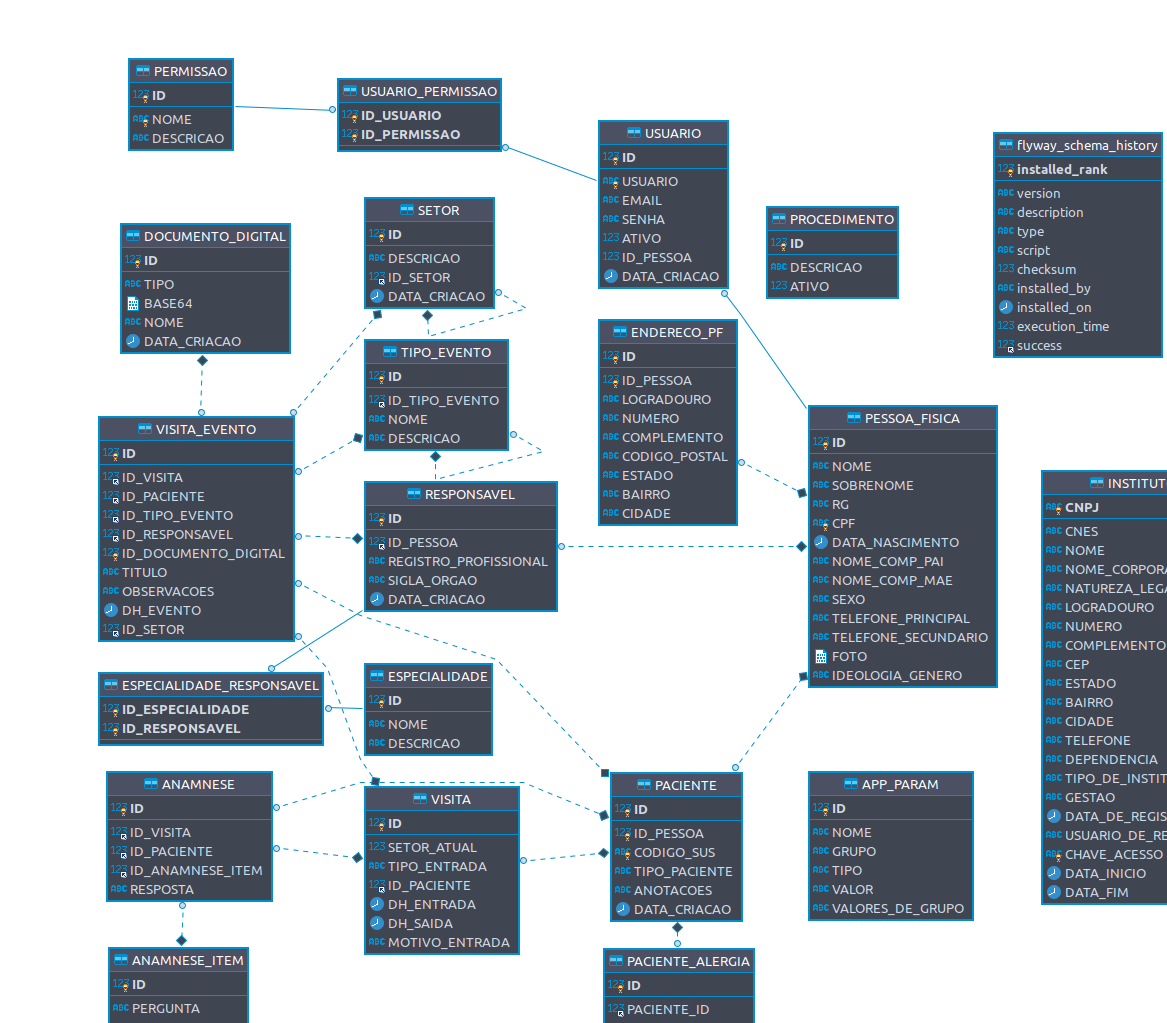
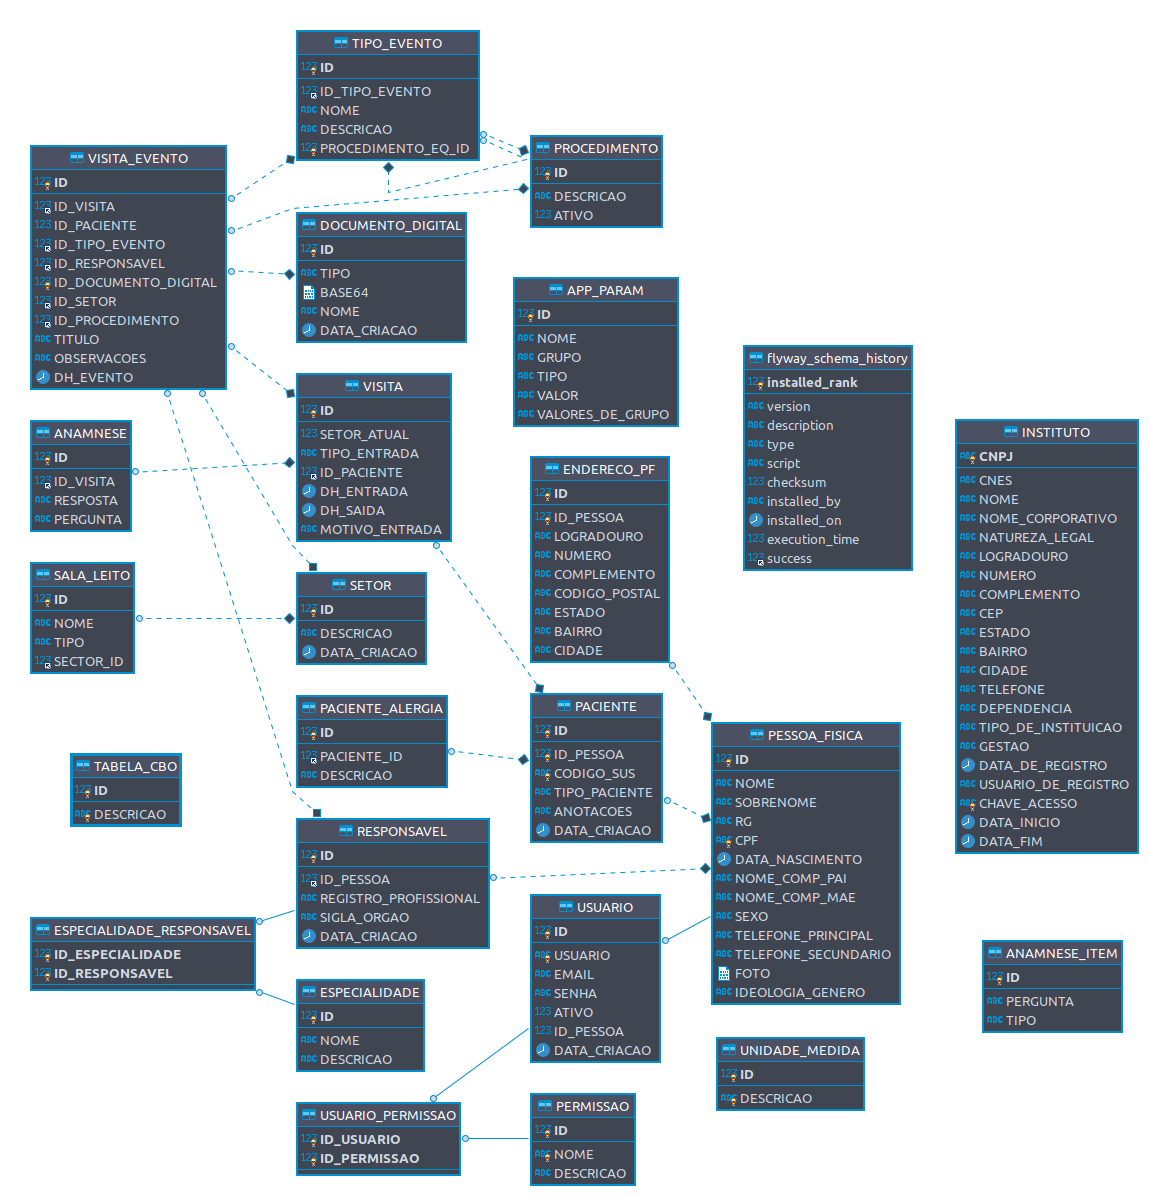
feat: adicionando estrutura de Tabela CBO

diff --git a/src/main/java/br/com/nivlabs/gp/repository/custom/cbo/CBOTableRepositoryCustomImpl.java b/src/main/java/br/com/nivlabs/gp/repository/custom/cbo/CBOTableRepositoryCustomImpl.java
@@ -1,0 +1,57 @@
+package br.com.nivlabs.gp.repository.custom.cbo;
+
+import java.util.ArrayList;
+import java.util.List;
+
+import org.springframework.beans.BeanUtils;
+import org.springframework.data.domain.Page;
+import org.springframework.data.domain.PageImpl;
+import org.springframework.data.domain.Pageable;
+
+import br.com.nivlabs.gp.controller.filters.CBOFilters;
+import br.com.nivlabs.gp.models.domain.CBOTable;
+import br.com.nivlabs.gp.models.dto.CBOTableDTO;
+import br.com.nivlabs.gp.repository.custom.CustomFilters;
+import br.com.nivlabs.gp.repository.custom.GenericCustomRepository;
+import br.com.nivlabs.gp.repository.custom.IExpression;
+import br.com.nivlabs.gp.util.StringUtils;
+
+/**
+ * Repositório customisado para CBO
+ * 
+ * @author viniciosarodrigues
+ *
+ */
+public class CBOTableRepositoryCustomImpl extends GenericCustomRepository<CBOTable>
+		implements CBOTableRepositoryCustom {
+
+	@Override
+	public Page<CBOTableDTO> resumedList(CustomFilters filters, Pageable pageSettings) {
+		Page<CBOTable> pageFromDatabase = pagination(createRestrictions(filters), pageSettings);
+
+		List<CBOTableDTO> listOfDTO = new ArrayList<>();
+
+		pageFromDatabase.forEach(entity -> {
+			CBOTableDTO dtoConverted = new CBOTableDTO();
+			BeanUtils.copyProperties(entity, dtoConverted);
+			listOfDTO.add(dtoConverted);
+		});
+		return new PageImpl<>(listOfDTO, pageSettings, pageFromDatabase.getTotalElements());
+
+	}
+
+	@Override
+	protected List<IExpression<CBOTable>> createRestrictions(CustomFilters customFilters) {
+		CBOFilters filters = (CBOFilters) customFilters;
+		List<IExpression<CBOTable>> attributes = new ArrayList<>();
+
+		if (!StringUtils.isNullOrEmpty(filters.getId()) && StringUtils.isNumeric(filters.getId())) {
+			attributes.add((cb, from) -> cb.equal(from.get("id"), Long.parseLong(filters.getId())));
+		}
+		if (!StringUtils.isNullOrEmpty(filters.getDescription())) {
+			attributes.add((cb, from) -> cb.like(from.get("description"), filters.getDescription()));
+		}
+		return attributes;
+	}
+
+}

diff --git a/src/main/java/br/com/nivlabs/gp/models/domain/CBOTable.java b/src/main/java/br/com/nivlabs/gp/models/domain/CBOTable.java
@@ -1,0 +1,30 @@
+
+package br.com.nivlabs.gp.models.domain;
+
+import javax.persistence.Column;
+import javax.persistence.Entity;
+import javax.persistence.Id;
+import javax.persistence.Table;
+
+import br.com.nivlabs.gp.models.BaseObject;
+import lombok.AllArgsConstructor;
+import lombok.Data;
+import lombok.EqualsAndHashCode;
+import lombok.NoArgsConstructor;
+
+@Entity
+@Table(name = "TABELA_CBO")
+@Data
+@EqualsAndHashCode(callSuper = true)
+@AllArgsConstructor
+@NoArgsConstructor
+public class CBOTable extends BaseObject {
+
+	private static final long serialVersionUID = -6730805701015543750L;
+
+	@Id
+	private Long id;
+
+	@Column(name = "DESCRIPTION")
+	private String description;
+}

diff --git a/src/main/java/br/com/nivlabs/gp/models/dto/CBOTableDTO.java b/src/main/java/br/com/nivlabs/gp/models/dto/CBOTableDTO.java
@@ -1,0 +1,23 @@
+package br.com.nivlabs.gp.models.dto;
+
+import io.swagger.annotations.ApiModel;
+import io.swagger.annotations.ApiModelProperty;
+import lombok.AllArgsConstructor;
+import lombok.Data;
+import lombok.EqualsAndHashCode;
+import lombok.NoArgsConstructor;
+
+@Data
+@AllArgsConstructor
+@NoArgsConstructor
+@EqualsAndHashCode(callSuper = true)
+@ApiModel("CBO Table")
+public class CBOTableDTO extends DataTransferObjectBase {
+
+	private static final long serialVersionUID = 480715163245338513L;
+
+	@ApiModelProperty(name = "Identificador único")
+	private Long id;
+	@ApiModelProperty(name = "Descrição")
+	private String description;
+}

diff --git a/src/main/java/br/com/nivlabs/gp/controller/filters/CBOFilters.java b/src/main/java/br/com/nivlabs/gp/controller/filters/CBOFilters.java
@@ -1,0 +1,24 @@
+package br.com.nivlabs.gp.controller.filters;
+
+import br.com.nivlabs.gp.repository.custom.CustomFilters;
+import lombok.AllArgsConstructor;
+import lombok.Data;
+import lombok.EqualsAndHashCode;
+import lombok.NoArgsConstructor;
+
+@Data
+@AllArgsConstructor
+@NoArgsConstructor
+@EqualsAndHashCode(callSuper = true)
+public class CBOFilters extends CustomFilters {
+
+	private static final long serialVersionUID = 3609981747639711452L;
+
+	private String id;
+
+	private String description;
+
+	public String getDescription() {
+		return "%".concat(description != null ? description : "").concat("%");
+	}
+}

diff --git a/src/main/java/br/com/nivlabs/gp/repository/CBOTableRepository.java b/src/main/java/br/com/nivlabs/gp/repository/CBOTableRepository.java
@@ -1,0 +1,18 @@
+package br.com.nivlabs.gp.repository;
+
+import org.springframework.data.jpa.repository.JpaRepository;
+import org.springframework.stereotype.Repository;
+
+import br.com.nivlabs.gp.models.domain.CBOTable;
+import br.com.nivlabs.gp.repository.custom.cbo.CBOTableRepositoryCustom;
+
+/**
+ * Repositório para Classificação Brasileira de Ocupação
+ * 
+ * @author viniciosarodrigues
+ *
+ */
+@Repository
+public interface CBOTableRepository extends JpaRepository<CBOTable, Long>, CBOTableRepositoryCustom {
+
+}

diff --git a/src/main/java/br/com/nivlabs/gp/repository/custom/CustomRepository.java b/src/main/java/br/com/nivlabs/gp/repository/custom/CustomRepository.java
@@ -1,0 +1,10 @@
+package br.com.nivlabs.gp.repository.custom;
+
+import org.springframework.data.domain.Page;
+import org.springframework.data.domain.Pageable;
+
+import br.com.nivlabs.gp.models.dto.DataTransferObjectBase;
+
+public interface CustomRepository<DTO extends DataTransferObjectBase> {
+	public Page<DTO> resumedList(CustomFilters filters, Pageable pageSettings);
+}

diff --git a/src/main/java/br/com/nivlabs/gp/repository/custom/cbo/CBOTableRepositoryCustom.java b/src/main/java/br/com/nivlabs/gp/repository/custom/cbo/CBOTableRepositoryCustom.java
@@ -1,0 +1,8 @@
+package br.com.nivlabs.gp.repository.custom.cbo;
+
+import br.com.nivlabs.gp.models.dto.CBOTableDTO;
+import br.com.nivlabs.gp.repository.custom.CustomRepository;
+
+public interface CBOTableRepositoryCustom extends CustomRepository<CBOTableDTO> {
+
+}
